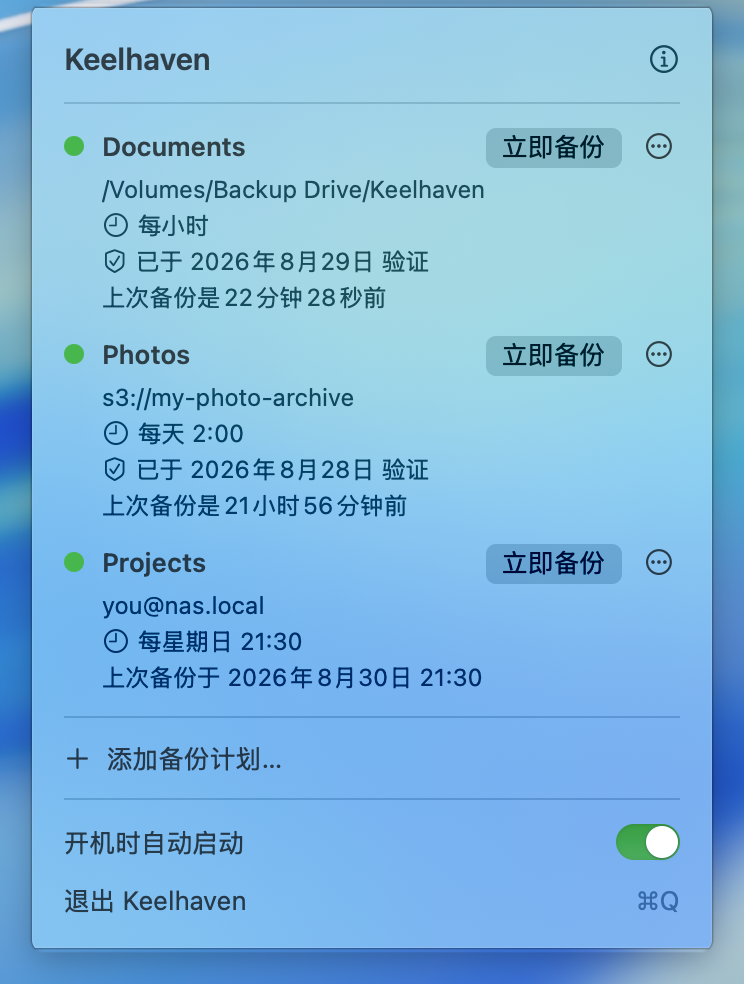
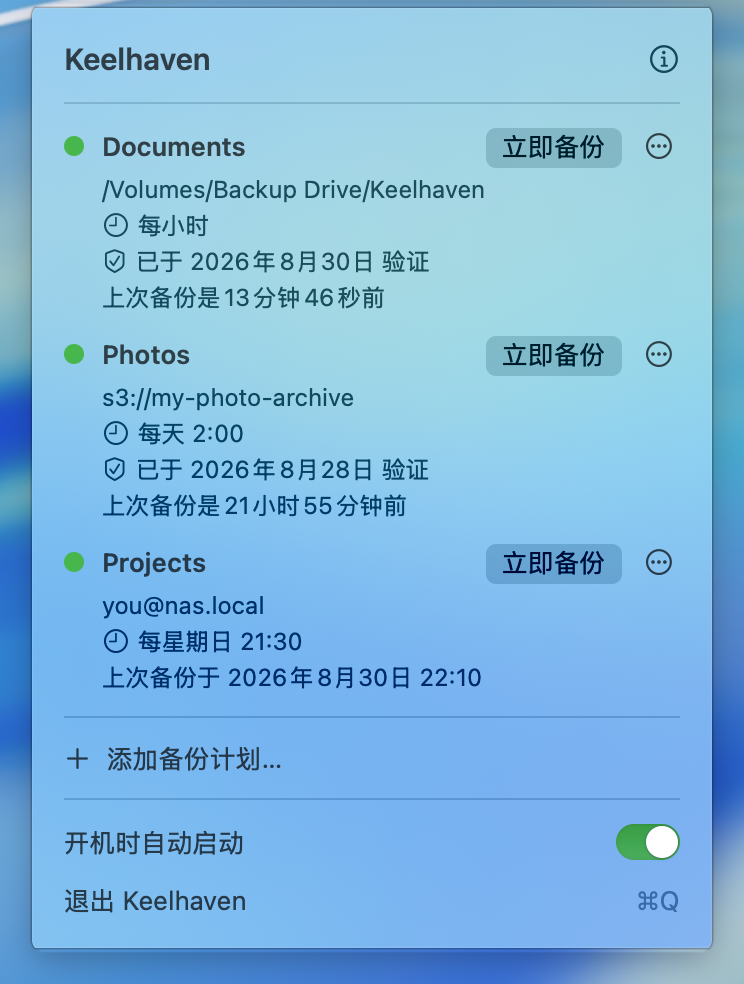
Screenshot the whole flow, not just the panel, on a clean desktop
One picture of the menu bar answered "what is it" and nothing else. The
three that matter to someone deciding whether to try this are what it looks
like, where it can put files, and how the files come back — so README now
leads with all three side by side.

  overview.png   the three below, composited at a shared height
  menu-bar.png   three plans: an external drive, an S3 bucket, a NAS
  wizard.png     "Where should the encrypted backup go?", advanced options
                 open so the Local / S3-Compatible / SFTP tabs are visible
  restore.png    snapshots by date, with "nothing is overwritten" in view
  welcome.png    first run
  menu-bar-zh.png  the panel in Simplified Chinese

Every window was captured with all other apps hidden, so the backgrounds are
desktop only — the first attempt had terminal text sitting behind the
wizard.

The plans are demo data, not the author's, and the restore window shows only
dates, file counts and sizes: no personal path appears in any image. Demo
schedules and last-run times were picked so SchedulePolicy.isDue stays false
for every plan, which keeps a real backup from firing mid-capture. The real
plan store was restored afterwards and md5-verified against its backup.

diff --git a/README.md b/README.md
@@ -20,12 +20,13 @@ Keelhaven wraps the battle-tested [restic](https://restic.net) engine in a nativ
 **Status: public beta.** The engine, wizard, scheduled backups, whole-snapshot restore, periodic repository verification, and retention presets all work — app and website in English and Simplified Chinese; file-level browsing inside snapshots is next.
 
 <p align="center">
-  <img src="docs/assets/screenshots/menu-bar.png" width="380"
-       alt="Keelhaven's menu bar panel: three backup plans — Documents to an external drive, Photos to an S3 bucket, Projects to a NAS over SFTP — each with a green status dot, its schedule, when it was last verified, and how long ago it last ran.">
+  <img src="docs/assets/screenshots/overview.png" width="880"
+       alt="Three Keelhaven windows side by side: the menu bar panel listing three backup plans with green status dots, the new-plan wizard asking where the encrypted backup should go with tabs for a local drive, S3 and SFTP, and the restore window listing snapshots by date.">
 </p>
 
-<p align="center"><em>The whole app: one menu bar panel. A Simplified Chinese
-build is <a href="docs/assets/screenshots/menu-bar-zh.png">here</a>.</em></p>
+<p align="center"><em>The menu bar panel, choosing a destination, and restoring
+from a point in time. Also in
+<a href="docs/assets/screenshots/menu-bar-zh.png">Simplified Chinese</a>.</em></p>
 
 ## Install
 
